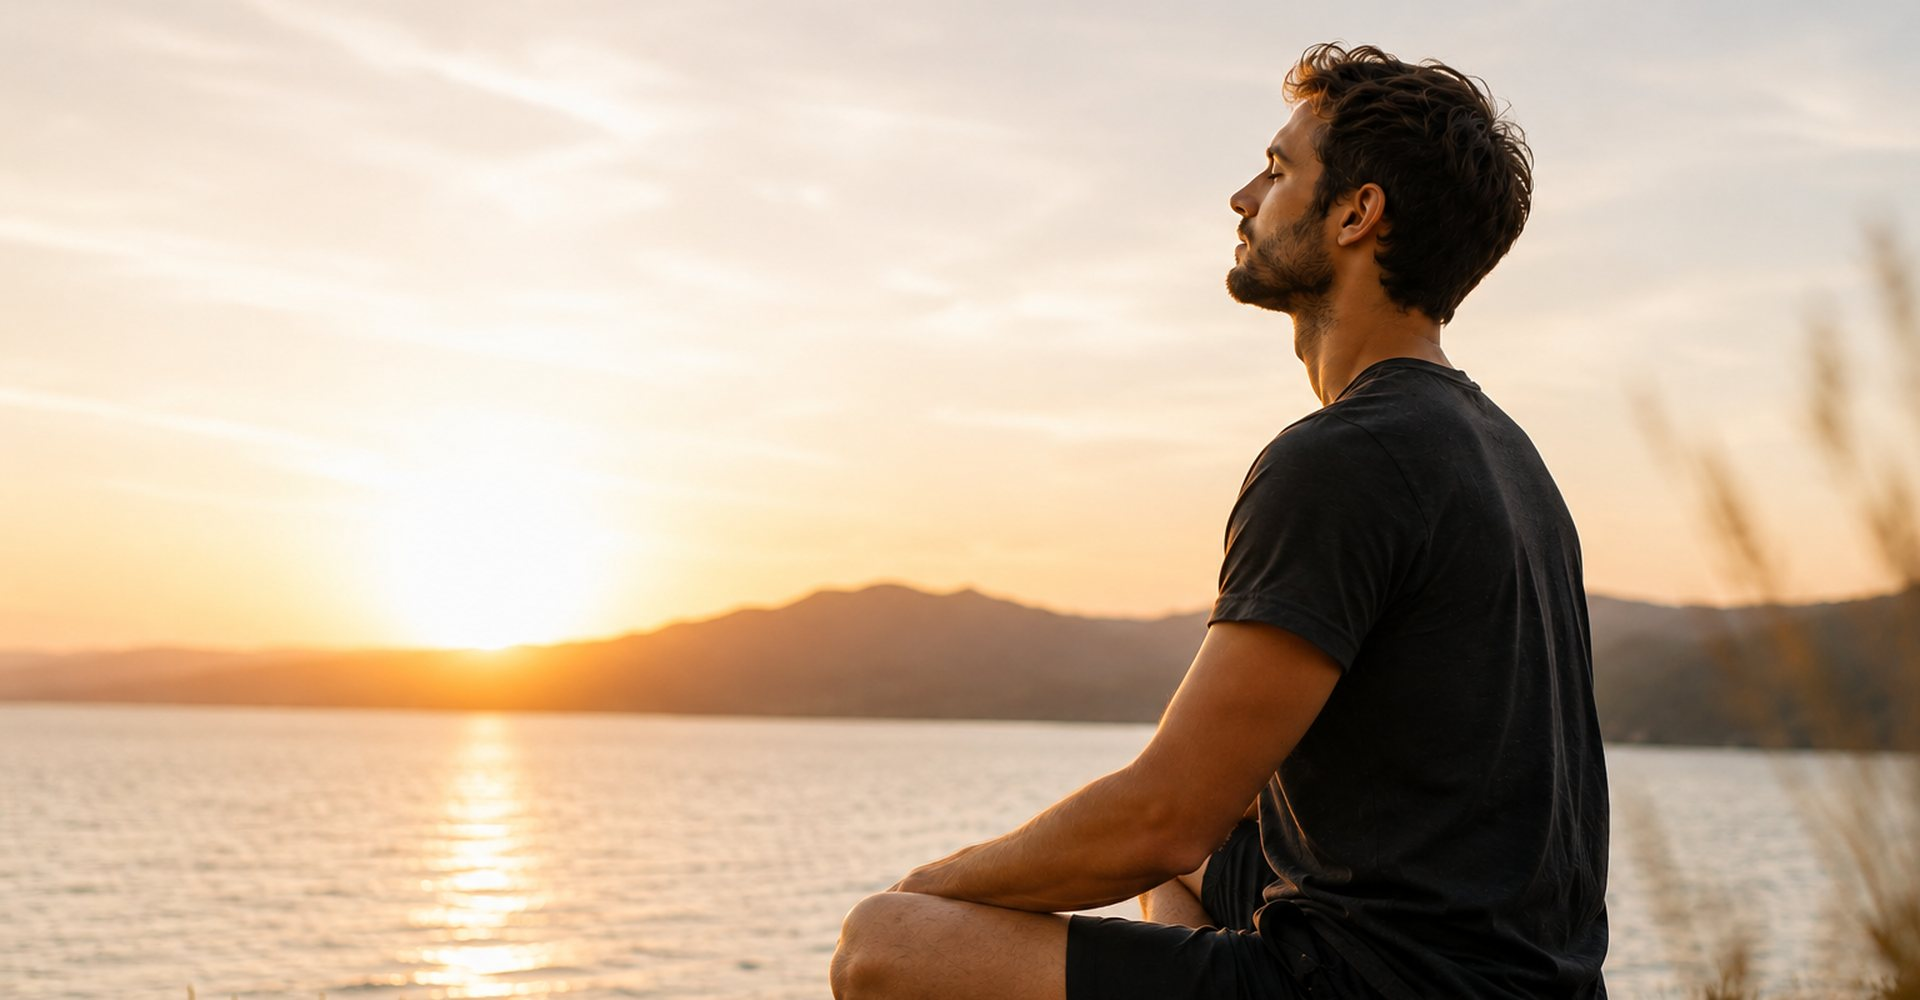
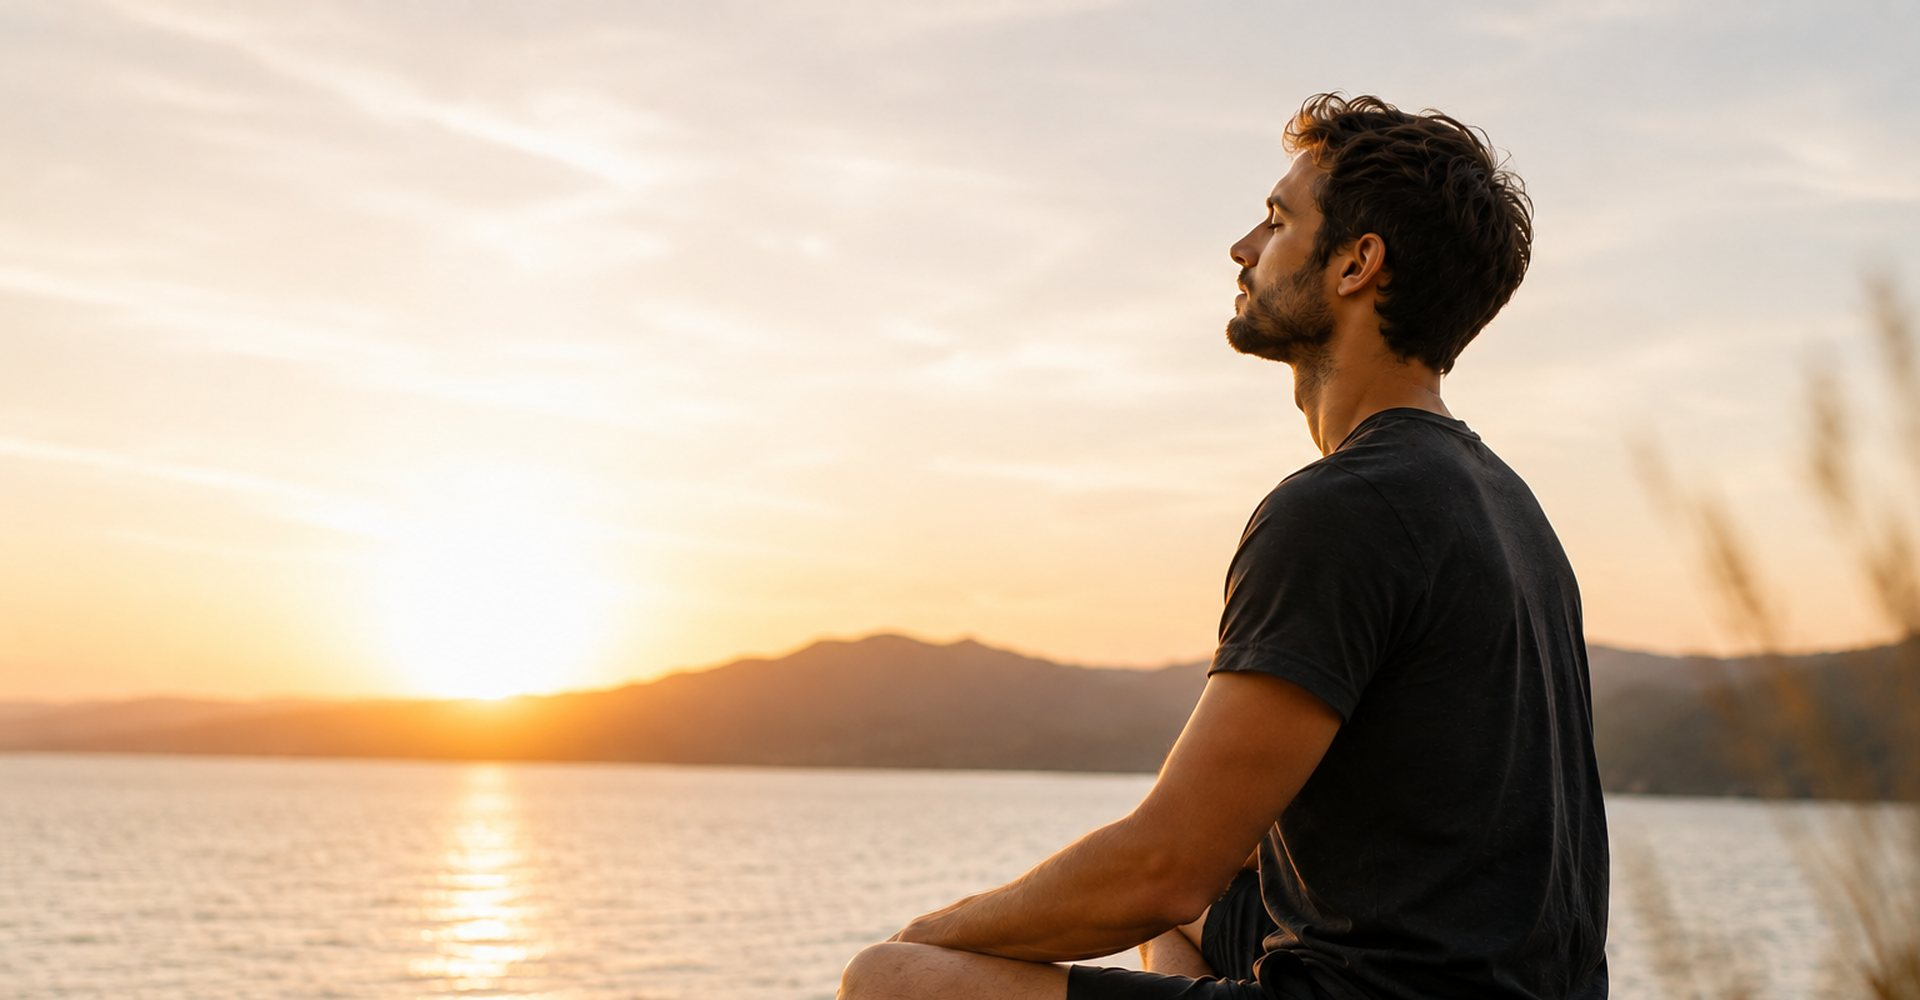
Vrh glave u kadru na Siguran prostor heru (v=92)

diff --git a/style.css b/style.css
@@ -476,7 +476,7 @@ ul.ls.cols2{display:grid;grid-template-columns:1fr 1fr;gap:12px 34px;margin-bott
 @media (max-width:900px){.check2{grid-template-columns:1fr;gap:28px;}}
 .hero.hero-more.hero-sam{background-image:url('img/hero-samadhi.jpg?10');background-position:center 25%;}
 .fw .article{max-width:1140px;}
-.hero.hero-more.hero-sp{background-image:url('img/hero-sp.jpg?6');background-position:right center;}
+.hero.hero-more.hero-sp{background-image:url('img/hero-sp.jpg?7');background-position:right top;}
 @media (max-width:700px){
   .hero.hero-more.hero-sam,.hero.hero-more.hero-sp{background:radial-gradient(120% 140% at 75% 20%, #fffefc 0%, #faf5ee 50%, #f1e9dd 100%);}
 }

diff --git a/blog.html b/blog.html
@@ -7,7 +7,7 @@
 <link rel="preconnect" href="https://fonts.googleapis.com">
 <link rel="preconnect" href="https://fonts.gstatic.com" crossorigin>
 <link href="https://fonts.googleapis.com/css2?family=Lora:ital,wght@0,400;0,500;0,600;0,700;1,400&family=Open+Sans:wght@300;400;500;600;700&display=swap" rel="stylesheet">
-<link rel="stylesheet" href="style.css?v=91">
+<link rel="stylesheet" href="style.css?v=92">
 </head>
 <body class="fw">
 

diff --git a/faq.html b/faq.html
@@ -7,7 +7,7 @@
 <link rel="preconnect" href="https://fonts.googleapis.com">
 <link rel="preconnect" href="https://fonts.gstatic.com" crossorigin>
 <link href="https://fonts.googleapis.com/css2?family=Lora:ital,wght@0,400;0,500;0,600;0,700;1,400&family=Open+Sans:wght@300;400;500;600;700&display=swap" rel="stylesheet">
-<link rel="stylesheet" href="style.css?v=91">
+<link rel="stylesheet" href="style.css?v=92">
 </head>
 <body class="fw">
 

diff --git a/index.html b/index.html
@@ -7,7 +7,7 @@
 <link rel="preconnect" href="https://fonts.googleapis.com">
 <link rel="preconnect" href="https://fonts.gstatic.com" crossorigin>
 <link href="https://fonts.googleapis.com/css2?family=Lora:ital,wght@0,400;0,500;0,600;0,700;1,400&family=Open+Sans:wght@300;400;500;600;700&display=swap" rel="stylesheet">
-<link rel="stylesheet" href="style.css?v=91">
+<link rel="stylesheet" href="style.css?v=92">
 </head>
 <body class="fw">
 

diff --git a/kolacici.html b/kolacici.html
@@ -7,7 +7,7 @@
 <link rel="preconnect" href="https://fonts.googleapis.com">
 <link rel="preconnect" href="https://fonts.gstatic.com" crossorigin>
 <link href="https://fonts.googleapis.com/css2?family=Lora:ital,wght@0,400;0,500;0,600;0,700;1,400&family=Open+Sans:wght@300;400;500;600;700&display=swap" rel="stylesheet">
-<link rel="stylesheet" href="style.css?v=91">
+<link rel="stylesheet" href="style.css?v=92">
 </head>
 <body class="fw">
 

diff --git a/konstelacije.html b/konstelacije.html
@@ -7,7 +7,7 @@
 <link rel="preconnect" href="https://fonts.googleapis.com">
 <link rel="preconnect" href="https://fonts.gstatic.com" crossorigin>
 <link href="https://fonts.googleapis.com/css2?family=Lora:ital,wght@0,400;0,500;0,600;0,700;1,400&family=Open+Sans:wght@300;400;500;600;700&display=swap" rel="stylesheet">
-<link rel="stylesheet" href="style.css?v=91">
+<link rel="stylesheet" href="style.css?v=92">
 </head>
 <body class="fw">
 

diff --git a/kontakt.html b/kontakt.html
@@ -7,7 +7,7 @@
 <link rel="preconnect" href="https://fonts.googleapis.com">
 <link rel="preconnect" href="https://fonts.gstatic.com" crossorigin>
 <link href="https://fonts.googleapis.com/css2?family=Lora:ital,wght@0,400;0,500;0,600;0,700;1,400&family=Open+Sans:wght@300;400;500;600;700&display=swap" rel="stylesheet">
-<link rel="stylesheet" href="style.css?v=91">
+<link rel="stylesheet" href="style.css?v=92">
 </head>
 <body class="fw">
 

diff --git a/omeni.html b/omeni.html
@@ -7,7 +7,7 @@
 <link rel="preconnect" href="https://fonts.googleapis.com">
 <link rel="preconnect" href="https://fonts.gstatic.com" crossorigin>
 <link href="https://fonts.googleapis.com/css2?family=Lora:ital,wght@0,400;0,500;0,600;0,700;1,400&family=Open+Sans:wght@300;400;500;600;700&display=swap" rel="stylesheet">
-<link rel="stylesheet" href="style.css?v=91">
+<link rel="stylesheet" href="style.css?v=92">
 </head>
 <body class="fw">
 

diff --git a/portal.html b/portal.html
@@ -7,7 +7,7 @@
 <link rel="preconnect" href="https://fonts.googleapis.com">
 <link rel="preconnect" href="https://fonts.gstatic.com" crossorigin>
 <link href="https://fonts.googleapis.com/css2?family=Lora:ital,wght@0,400;0,500;0,600;0,700;1,400&family=Open+Sans:wght@300;400;500;600;700&display=swap" rel="stylesheet">
-<link rel="stylesheet" href="style.css?v=91">
+<link rel="stylesheet" href="style.css?v=92">
 </head>
 <body class="fw">
 

diff --git a/post.html b/post.html
@@ -7,7 +7,7 @@
 <link rel="preconnect" href="https://fonts.googleapis.com">
 <link rel="preconnect" href="https://fonts.gstatic.com" crossorigin>
 <link href="https://fonts.googleapis.com/css2?family=Lora:ital,wght@0,400;0,500;0,600;0,700;1,400&family=Open+Sans:wght@300;400;500;600;700&display=swap" rel="stylesheet">
-<link rel="stylesheet" href="style.css?v=91">
+<link rel="stylesheet" href="style.css?v=92">
 </head>
 <body class="fw">
 

diff --git a/privatnost.html b/privatnost.html
@@ -7,7 +7,7 @@
 <link rel="preconnect" href="https://fonts.googleapis.com">
 <link rel="preconnect" href="https://fonts.gstatic.com" crossorigin>
 <link href="https://fonts.googleapis.com/css2?family=Lora:ital,wght@0,400;0,500;0,600;0,700;1,400&family=Open+Sans:wght@300;400;500;600;700&display=swap" rel="stylesheet">
-<link rel="stylesheet" href="style.css?v=91">
+<link rel="stylesheet" href="style.css?v=92">
 </head>
 <body class="fw">
 

diff --git a/programi.html b/programi.html
@@ -7,7 +7,7 @@
 <link rel="preconnect" href="https://fonts.googleapis.com">
 <link rel="preconnect" href="https://fonts.gstatic.com" crossorigin>
 <link href="https://fonts.googleapis.com/css2?family=Lora:ital,wght@0,400;0,500;0,600;0,700;1,400&family=Open+Sans:wght@300;400;500;600;700&display=swap" rel="stylesheet">
-<link rel="stylesheet" href="style.css?v=91">
+<link rel="stylesheet" href="style.css?v=92">
 </head>
 <body class="fw">
 
